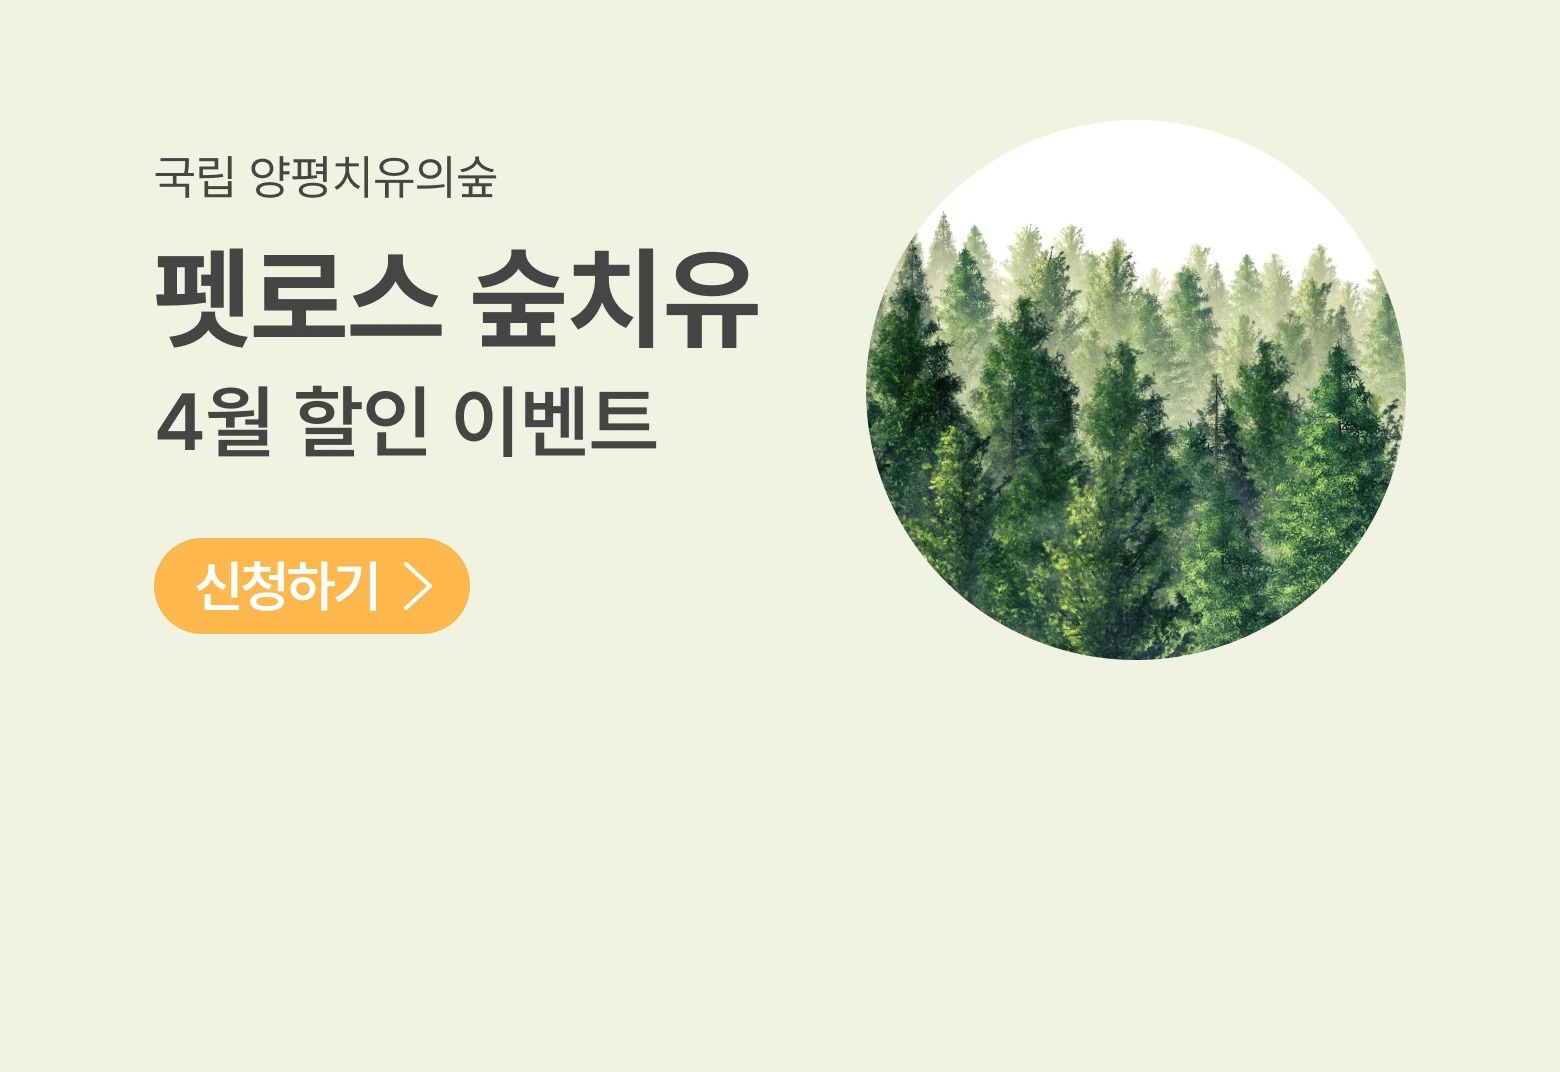
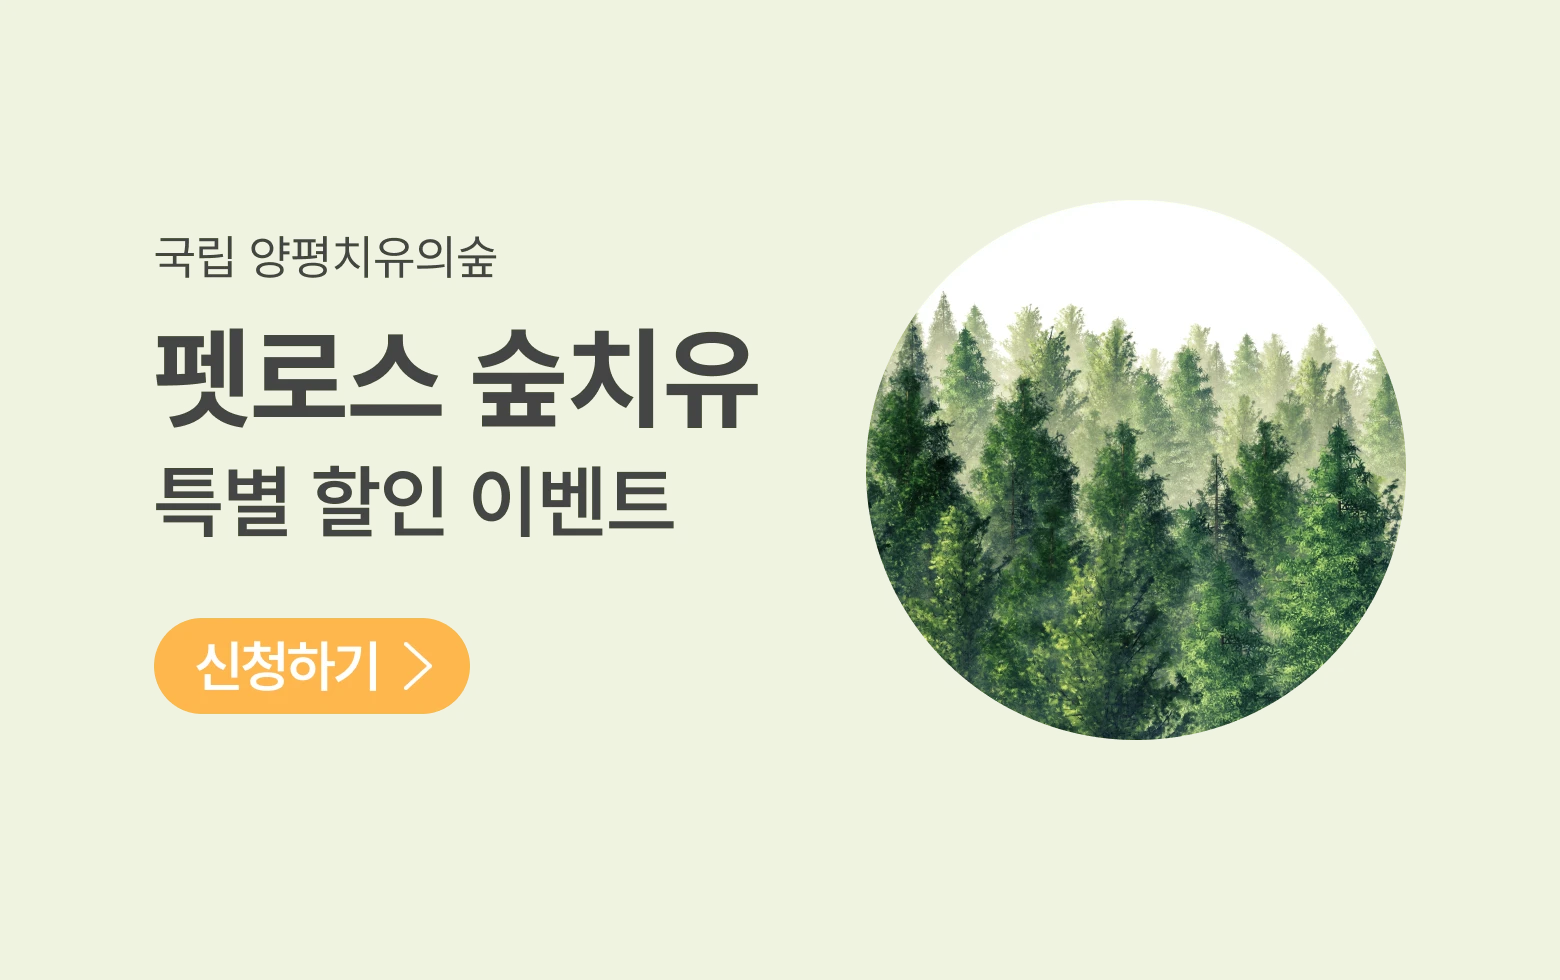
Merge pull request #411 from rainbow-letter/dev
Dev

Changed region(s): [[0.5538, 0.0918, 0.9231, 0.7653], [0.0923, 0.2143, 0.4923, 0.7347], [0.0923, 0.1224, 0.3385, 0.1837]]

diff --git a/src/components/MainBanner/constants.ts b/src/components/MainBanner/constants.ts
@@ -16,12 +16,12 @@ export const BANNER_ITEMS = [
     link: 'https://tumblbug.com/rainbowletter/story?utm_source=tumblbug&utm_medium=system_email&utm_campaign=alarm_start_project',
     image: Tumblbug,
   },
-  // {
-  //   id: 3,
-  //   category: 'EVENT',
-  //   link: '/donate',
-  //   image: Forest,
-  // },
+  {
+    id: 3,
+    category: 'EVENT',
+    link: 'https://pf.kakao.com/_MNevG/108670095',
+    image: Forest,
+  },
 ];
 
 export const EN_BANNER_ITEMS = [

diff --git a/src/components/Modal/constants.ts b/src/components/Modal/constants.ts
@@ -31,11 +31,11 @@ export const MODAL_AD_CONTENTS_ITEMS: Modal_AD[] = [
     image: Tumblbug,
     url: 'https://tumblbug.com/rainbowletter/story?utm_source=tumblbug&utm_medium=system_email&utm_campaign=alarm_start_project',
   },
-  // {
-  //   id: 2,
-  //   image: Forest,
-  //   url: 'https://pf.kakao.com/_MNevG/105645061',
-  // },
+  {
+    id: 2,
+    image: Forest,
+    url: 'https://pf.kakao.com/_MNevG/108670095',
+  },
   {
     id: 3,
     image: Kakao,

diff --git a/src/components/Donate/constants.tsx b/src/components/Donate/constants.tsx
@@ -112,10 +112,10 @@ export const APP_BAR_BANNER_CONTENTS = [
     link: 'https://tumblbug.com/rainbowletter/story?utm_source=tumblbug&utm_medium=system_email&utm_campaign=alarm_start_project',
     image: Tumblbug,
   },
-  // {
-  //   id: 3,
-  //   category: 'EVENT',
-  //   link: '/donate',
-  //   image: Forest,
-  // },
+  {
+    id: 3,
+    category: 'EVENT',
+    link: 'https://pf.kakao.com/_MNevG/108670095',
+    image: Forest,
+  },
 ];
